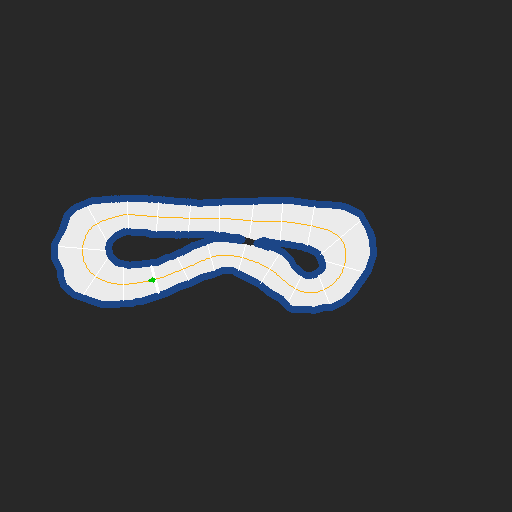
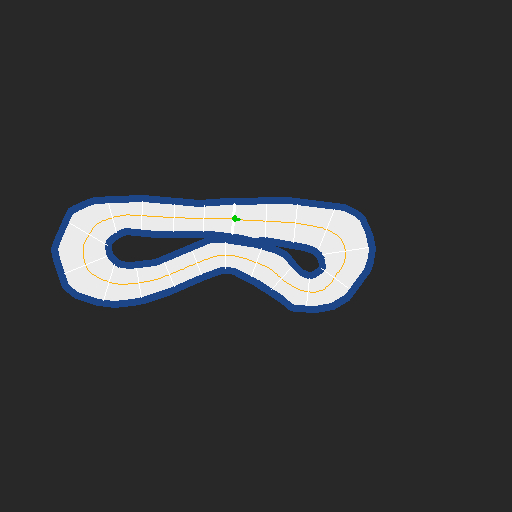
House driver rewritten (MAP-style steering, speed profile, bounded-trim throttle); proxy port off the container range; opponent uses the house driver
Claude-Session: https://claude.ai/code/session_01Lsy62Kyf6iHVnXtg8GygRH

diff --git a/devkit/feb_tools/feb_tools/house_driver.py b/devkit/feb_tools/feb_tools/house_driver.py
@@ -1,0 +1,181 @@
+"""The house driver: a competent, predictable opponent that follows the track's centreline.
+
+It knows the map (track.json) and uses the simulator's position and orientation, which
+competitors may not do at race time. That is the point: it is the rabbit, not an entry.
+
+Steering: MAP-style pursuit (L1 guidance plus a curvature feed-forward, capped at the tyre's
+slip peak, lightly low-passed), from the IROS 2026 league stack in ~/roboracer.
+Speed: a profile along the path from curvature with a braking backward pass, tracked by
+feed-forward plus a bounded trim (throttle 0 is a hard brake in this simulator, so a plain
+PI loop limit-cycles), slew-limited, with a hysteretic brake regime for real overspeed.
+
+    ros2 run feb_tools house_driver --ros-args -p track:=/path/to/track/folder -p max_speed:=2.5
+"""
+import json
+import math
+import pathlib
+
+import numpy as np
+import rclpy
+from geometry_msgs.msg import Point
+from rclpy.node import Node
+from rclpy.qos import QoSDurabilityPolicy, QoSHistoryPolicy, QoSProfile, QoSReliabilityPolicy
+from sensor_msgs.msg import Imu, JointState
+from std_msgs.msg import Float32
+
+NS = "/autodrive/roboracer_1/"
+QOS = QoSProfile(reliability=QoSReliabilityPolicy.RELIABLE, durability=QoSDurabilityPolicy.VOLATILE,
+                 history=QoSHistoryPolicy.KEEP_LAST, depth=10)
+WHEELBASE = 0.324
+WHEEL_RADIUS = 0.059
+MAX_STEER = 0.5236
+SLIP_PEAK = 0.30          # rad; the tyre's lateral grip peaks here, steering past it turns less
+STEER_DELAY = 0.25        # s; command-to-wheel lag measured on this car
+
+
+class HouseDriver(Node):
+    def __init__(self):
+        super().__init__("house_driver")
+        defaults = dict(track="", max_speed=2.5, min_speed=0.8, lat_accel=4.5, decel=5.0, accel=4.0,
+                        speed_per_throttle=23.0, throttle_kp=0.05, throttle_ki=0.03, rate=40.0)
+        for key, value in defaults.items():
+            self.declare_parameter(key, value)
+        self.p = {k: self.get_parameter(k).value for k in defaults}
+
+        track = json.loads((pathlib.Path(self.p["track"]) / "track.json").read_text())
+        self.path = np.asarray(track["centreline"], dtype=float).reshape(-1, 2)
+        self.ds = float(track["length"]) / len(self.path)
+        self.kappa = self.signed_curvature()
+        self.v_ref = self.speed_profile()
+
+        self.position = None
+        self.yaw = None
+        self.yaw_rate = 0.0
+        self.speed = 0.0
+        self.encoders = {}
+        self.v_target = 0.0
+        self.integral = 0.0
+        self.throttle = 0.0
+        self.steer = 0.0
+        self.braking = False
+
+        self.pub_throttle = self.create_publisher(Float32, NS + "throttle_command", QOS)
+        self.pub_steering = self.create_publisher(Float32, NS + "steering_command", QOS)
+        self.create_subscription(Point, NS + "ips", self.on_position, QOS)
+        self.create_subscription(Imu, NS + "imu", self.on_imu, QOS)
+        for side in ("left", "right"):
+            self.create_subscription(JointState, NS + side + "_encoder", self.on_encoder, QOS)
+        self.dt = 1.0 / self.p["rate"]
+        self.create_timer(self.dt, self.step)
+        self.get_logger().info(f"house driver on '{track['name']}' at {self.p['max_speed']} m/s "
+                               f"(profile mean {self.v_ref.mean():.2f} m/s)")
+
+    # ---------------------------------------------------------------- path model
+
+    def signed_curvature(self):
+        """Curvature along the closed centreline (positive = left turn), smoothed over ~0.5 m."""
+        d = np.roll(self.path, -1, axis=0) - np.roll(self.path, 1, axis=0)
+        heading = np.unwrap(np.arctan2(d[:, 1], d[:, 0]))
+        kappa = np.gradient(heading) / self.ds
+        w = max(1, int(0.5 / self.ds))
+        padded = np.concatenate([kappa[-w:], kappa, kappa[:w]])
+        return np.convolve(padded, np.ones(w) / w, mode="same")[w:-w]
+
+    def speed_profile(self):
+        """Cornering limit from curvature, then a backward pass (braking) and a forward pass
+        (acceleration) so the profile is reachable; two laps of passes close the loop."""
+        v = np.sqrt(self.p["lat_accel"] / np.maximum(np.abs(self.kappa), 1e-3))
+        v = np.clip(v, self.p["min_speed"], self.p["max_speed"])
+        n = len(v)
+        for _ in range(2):
+            for i in range(n - 1, -1, -1):
+                v[i] = min(v[i], math.sqrt(v[(i + 1) % n] ** 2 + 2.0 * self.p["decel"] * self.ds))
+            for i in range(n):
+                v[(i + 1) % n] = min(v[(i + 1) % n], math.sqrt(v[i] ** 2 + 2.0 * self.p["accel"] * self.ds))
+        return v
+
+    # ---------------------------------------------------------------- sensing
+
+    def on_position(self, msg):
+        self.position = np.array([msg.x, msg.y])
+
+    def on_imu(self, msg):
+        q = msg.orientation
+        self.yaw = math.atan2(2.0 * (q.w * q.z + q.x * q.y), 1.0 - 2.0 * (q.y * q.y + q.z * q.z))
+        self.yaw_rate = msg.angular_velocity.z
+
+    def on_encoder(self, msg):
+        t = msg.header.stamp.sec + msg.header.stamp.nanosec * 1e-9
+        angle = float(msg.position[0])
+        last = self.encoders.get(msg.header.frame_id)
+        self.encoders[msg.header.frame_id] = (t, angle)
+        if last and angle >= last[1] and t - last[0] > 1e-3:
+            v = (angle - last[1]) / (t - last[0]) * WHEEL_RADIUS
+            if v < 25.0:
+                self.speed = 0.7 * self.speed + 0.3 * v
+
+    # ---------------------------------------------------------------- control
+
+    def step(self):
+        if self.position is None or self.yaw is None:
+            return
+        v = max(self.speed, 0.3)
+        # act where the command will land: predict the pose one steering delay ahead
+        yaw = self.yaw + self.yaw_rate * STEER_DELAY
+        pos = self.position + v * STEER_DELAY * np.array([math.cos(self.yaw), math.sin(self.yaw)])
+        i0 = int(np.argmin(np.linalg.norm(self.path - pos, axis=1)))
+        n = len(self.path)
+
+        # --- steering: L1 pursuit + curvature feed-forward, inverted through the bicycle model
+        ld = 0.35 + 0.22 * v
+        j = (i0 + max(1, int(ld / self.ds))) % n
+        dx, dy = self.path[j] - pos
+        eta = math.atan2(dy, dx) - yaw
+        eta = math.atan2(math.sin(eta), math.cos(eta))
+        kappa_fb = 2.0 * math.sin(eta) / max(math.hypot(dx, dy), 0.3)
+        kappa_ff = 0.6 * float(self.kappa[(i0 + max(1, int(0.15 * v / self.ds))) % n])
+        delta = float(np.clip(math.atan((kappa_fb + kappa_ff) * WHEELBASE), -SLIP_PEAK, SLIP_PEAK))
+        self.steer += (delta - self.steer) * min(1.0, self.dt / 0.06)
+
+        # --- speed: lowest profile speed over the next 0.3 s, low-passed
+        window = [(i0 + k) % n for k in range(max(2, int(0.3 * v / self.ds)))]
+        target = float(self.v_ref[window].min())
+        self.v_target += (target - self.v_target) * min(1.0, self.dt / 0.3)
+        self.throttle = self.throttle_law(self.speed, self.v_target)
+
+        self.pub_throttle.publish(Float32(data=self.throttle))
+        self.pub_steering.publish(Float32(data=self.steer / MAX_STEER))
+
+    def throttle_law(self, v, v_t):
+        """Feed-forward plus a trim bounded to half of it: the command never falls to zero
+        (a hard brake) while speed is wanted. Real overspeed uses the brake with hysteresis."""
+        if self.braking:
+            self.braking = v > v_t + 0.2
+        elif v > v_t + 0.6:
+            self.braking = True
+        if self.braking:
+            self.integral = 0.0
+            return 0.0
+        ff = v_t / self.p["speed_per_throttle"]
+        err = v_t - v
+        self.integral = float(np.clip(self.integral + err * self.dt, -0.8, 0.8))
+        trim = float(np.clip(self.p["throttle_kp"] * err + self.p["throttle_ki"] * self.integral, -0.5 * ff, 0.5 * ff))
+        wanted = float(np.clip(ff + trim, 0.0, 1.0))
+        slew = 0.8 * self.dt
+        return float(np.clip(wanted, self.throttle - slew, self.throttle + slew)) if self.throttle > 0.0 else wanted
+
+
+def main():
+    rclpy.init()
+    node = HouseDriver()
+    try:
+        rclpy.spin(node)
+    except KeyboardInterrupt:
+        pass
+    finally:
+        node.pub_throttle.publish(Float32(data=0.0))
+        node.destroy_node()
+
+
+if __name__ == "__main__":
+    main()

diff --git a/tools/track_build.py b/tools/track_build.py
@@ -102,6 +102,12 @@ def distance_to(contour, shape):
     return cv2.distanceTransform(canvas, cv2.DIST_L2, 5)
 
 
+def inside(mask, p):
+    h, w = mask.shape
+    c, r = int(round(p[0])), int(round(p[1]))
+    return 0 <= c < w and 0 <= r < h and mask[r, c] > 0
+
+
 def simplify(contour, tolerance_px=SIMPLIFY_PX):
     approx = cv2.approxPolyDP(contour.astype(np.float32).reshape(-1, 1, 2), tolerance_px, True)
     return approx.reshape(-1, 2).astype(float)
@@ -129,31 +135,31 @@ def smooth_closed(points, window):
 def centreline_px(mask, outer, hole, d_outer, d_hole):
     """Walk outward from the hole boundary until equidistant from both walls."""
     h, w = mask.shape
-    pts = resample_closed(hole, spacing=4.0)
-    tangents = np.roll(pts, -1, axis=0) - np.roll(pts, 1, axis=0)
-    tangents /= np.linalg.norm(tangents, axis=1, keepdims=True)
-    normals = np.stack([-tangents[:, 1], tangents[:, 0]], axis=1)
-
-    def inside(p):
-        c, r = int(round(p[0])), int(round(p[1]))
-        return 0 <= c < w and 0 <= r < h and mask[r, c] > 0
-
-    # pick the normal sign that points into the corridor
-    probe = pts + 3.0 * normals
-    if np.mean([inside(p) for p in probe]) < 0.5:
-        normals = -normals
+    pts, normals = contour_normals(hole, mask, spacing=4.0, into_corridor=True)
 
     centre = []
     for p, n in zip(pts, normals):
         q = p.copy()
         for _ in range(int(max(h, w))):
             q += 0.5 * n
-            if not inside(q):
+            if not inside(mask, q):
                 break
             if d_outer[int(round(q[1])), int(round(q[0]))] <= d_hole[int(round(q[1])), int(round(q[0]))]:
                 centre.append(q.copy())
                 break
     return np.array(centre)
+
+
+def contour_normals(contour, mask, spacing, into_corridor):
+    """Resampled contour points and unit normals pointing into (or away from) the corridor."""
+    pts = smooth_closed(resample_closed(contour, spacing), window=5)
+    tangents = np.roll(pts, -1, axis=0) - np.roll(pts, 1, axis=0)
+    tangents /= np.maximum(np.linalg.norm(tangents, axis=1, keepdims=True), 1e-9)
+    normals = np.stack([-tangents[:, 1], tangents[:, 0]], axis=1)
+    inward = np.mean([inside(mask, p) for p in pts + 3.0 * normals]) >= 0.5
+    if inward != into_corridor:
+        normals = -normals
+    return pts, normals
 
 
 def signed_area(xy):
@@ -179,11 +185,13 @@ def yaw_at(xy, i):
 # ---------------------------------------------------------------- features
 
 def build_walls(mask, radius_px, frame):
-    """Wall centre polylines (metres): the corridor boundary pushed out by the duct radius."""
-    k = 2 * int(math.ceil(radius_px)) + 1
-    grown = cv2.dilate(mask, cv2.getStructuringElement(cv2.MORPH_ELLIPSE, (k, k)))
-    outer, holes = boundaries(grown)
-    loops = [frame.to_map(simplify(c)) for c in [outer] + holes]
+    """Wall centre polylines (metres): each corridor boundary pushed away from the corridor by the
+    duct radius along its normals, so thin islands stay one loop."""
+    outer, holes = boundaries(mask)
+    loops = []
+    for contour in [outer] + holes:
+        pts, normals = contour_normals(contour, mask, spacing=2.0, into_corridor=False)
+        loops.append(frame.to_map(simplify(pts + radius_px * normals)))
     return [w for w in loops if cv2.arcLength(w.astype(np.float32), True) >= MIN_WALL_LENGTH]
 
 

diff --git a/febrace/h2h.py b/febrace/h2h.py
@@ -26,7 +26,7 @@ PROXY_IMAGE = os.environ.get("FEB_DEVKIT_IMAGE", "ghcr.io/pranman1/feb-devkit:la
 
 
 class Race:
-    def __init__(self, entries, track, sim_exe, event, race_id, rules, base_port=4568, rct_port=4570,
+    def __init__(self, entries, track, sim_exe, event, race_id, rules, base_port=4568, proxy_port=4580,
                  headless=True, runs_dir=pathlib.Path("runs")):
         stamp = dt.datetime.now().strftime("%Y%m%d-%H%M%S")
         self.cars = [Attempt(image=image, track=track, sim_exe=sim_exe, team=team, event=event, rules=rules,
@@ -36,7 +36,7 @@ class Race:
             car.id = f"{stamp}-{race_id}-{car.team.replace(' ', '_')}"
             car.dir = pathlib.Path(runs_dir) / f"{stamp}-{race_id}" / f"car{i + 1}"
             car.container = f"feb-h2h-{stamp}-{i + 1}"
-        self.race_id, self.proxy_port, self.proxy = race_id, rct_port, f"feb-proxy-{stamp}"
+        self.race_id, self.proxy_port, self.proxy = race_id, proxy_port, f"feb-proxy-{stamp}"
 
     def run(self, on_event=print):
         started = dt.datetime.now(dt.timezone.utc)

diff --git a/febrace/probe.py b/febrace/probe.py
@@ -50,7 +50,7 @@ def settle_lap_time(node, state, before, wait=2.0):
     to change from the raw value seen at the previous lap. The simulator reports +inf until the
     first lap, which JSON cannot carry: use None."""
     deadline = time.time() + wait
-    while time.time() < deadline and state.get("last_lap_time") in (before, None):
+    while time.time() < deadline and (state.get("last_lap_time") in (before, None) or not math.isfinite(state["last_lap_time"])):
         rclpy.spin_once(node, timeout_sec=0.05)
     t = state.get("last_lap_time")
     return t if t is not None and math.isfinite(t) else None

diff --git a/devkit/feb_tools/setup.py b/devkit/feb_tools/setup.py
@@ -19,5 +19,6 @@ setup(
     maintainer_email="pranavbhatttheonlyone@gmail.com",
     description="FEB devkit extras",
     license="BSD-2-Clause",
-    entry_points={"console_scripts": ["sensor_noise = feb_tools.sensor_noise:main"]},
+    entry_points={"console_scripts": ["sensor_noise = feb_tools.sensor_noise:main",
+                                      "house_driver = feb_tools.house_driver:main"]},
 )

diff --git a/docs/handbook.md b/docs/handbook.md
@@ -41,7 +41,7 @@ and throttle in [-1, 1] (0 is a hard brake). Everything else is a sensor.
    starts the container (which builds your packages), then the simulator, connected. Edit,
    rerun. `./feb-sim shell` gives a ROS 2 shell in the container (`ros2 topic echo`, `rqt`).
    Options: `--track porto`, `--noise 1`, `--lidar-hz 10`, `--opponent normal`, `--camera Trackcam`.
-   In the app: the menu's Track and Cars dropdowns switch tracks and put more cars on the grid.
+   In the app: the menu's "Track" and "Cars" buttons cycle tracks and put more cars on the grid.
 4. **Score yourself.** `./feb-sim practice --stack "..."`: warm-up plus 10 timed laps, 10 s per
    collision, DNF after 300 s. The result and a bag land in `runs/<id>/`.
 5. **Post it.** `./feb-sim submit`: opens a pull request with the result file; a check validates
@@ -91,7 +91,7 @@ and flags the result. Everything must start from the container's entrypoint, not
 | Simulator players | `~/FEB/feb-sim/Builds/{linux,mac,windows}`; Linux also linked at `~/.feb-sim/app/linux` |
 | Unity editor | `~/Unity/Hub/Editor/2022.3.52f1` (licensed via Hub sign-in) |
 | Run folders | `~/FEB/feb-racing/runs/<id>/` (result.json, sim.log, container.log, bag) |
-| Ports | 4567 member devkit, 4568+ harness containers, 4570 proxy, 4565/4566 launcher opponent |
+| Ports | 4567 member devkit, 4568+ harness containers (one per car), 4580 harness proxy, 4565/4566 launcher proxy and opponent |
 
 ## Frequently hit
 
